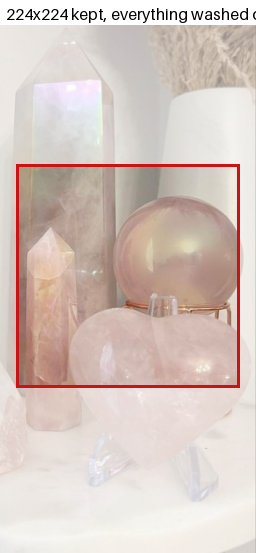
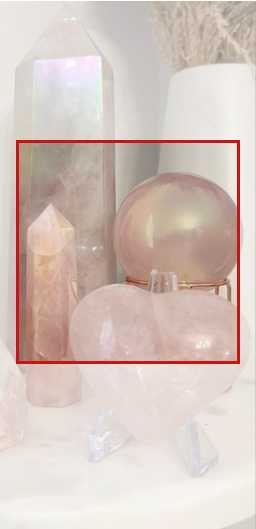
Long report: let long file names break across lines, proper quote marks, and crop the cut-off label from the crop-box figure
Claude-Session: https://claude.ai/code/session_01SL4m8snqhvQXPHuCVLHe1e

diff --git a/long_report/long_report.tex b/long_report/long_report.tex
@@ -34,7 +34,7 @@ They are also things I can photograph myself, which Problem 5 needs.
 
 I checked the four against \texttt{imagenet\_classes.txt}, the 1,000 categories
 ResNet18 already tells apart: none of the four is in it, the only entries that
-share a word with them being "stone wall" and "ruddy turnstone", and nothing in
+share a word with them being ``stone wall'' and ``ruddy turnstone'', and nothing in
 the list is a piece of polished quartz. So the last layer has to be replaced
 and these four categories have to be learned from features that were trained on
 something else.
@@ -532,10 +532,10 @@ all ten originals are answered right by the page.
 
 My requests to the agent, word for word:
 \begin{quote}
-make a copy of each image in data/new\_images/amethyst and
-data/new\_images/aventurine with lowered saturation and save the copies,
-respectively, in data/changed/less\_saturation\_amethyst and
-data/changed/less\_saturation\_aventurine
+make a copy of each image in \path{data/new_images/amethyst} and
+\path{data/new_images/aventurine} with lowered saturation and save the copies,
+respectively, in \path{data/changed/less_saturation_amethyst} and
+\path{data/changed/less_saturation_aventurine}
 \end{quote}
 and, asked by how much:
 \begin{quote}
@@ -619,7 +619,7 @@ were paler and less full in color, while the amethyst 0\% saturation that were
 guessed to be aventurine also were less full, paler but overall darker. Which
 makes me think that for the model aventurine is dark, but also pale, while rose
 quartz is pale but lighter. If I think of the mistakes made, the first one was
-of data/new\_images/citrine/6dc1dd3c-0216-45b8-abb7-214d633d280e.JPG being
+of \path{data/new_images/citrine/6dc1dd3c-0216-45b8-abb7-214d633d280e}.JPG being
 guessed as rose quartz, and in fact the crystal in the photo is less full in
 color, and lighter. To check this, the transparency of the images should be
 lowered. In particular my guess to check if transparency plays a role in how
@@ -639,10 +639,10 @@ lighter.
 My requests to the agent, word for word:
 \begin{quote}
 So make a copy of
-data/changed/less\_saturation\_amethyst/44db3aaf-5cdf-4004-9255-868fefec64c3.JPG,
-data/changed/less\_saturation\_amethyst/a95f9f93-5117-4b70-9e92-4c513bb5decc.JPG
-and data/changed/less\_saturation\_amethyst/IMG\_3089.JPG with lower transparency
-and save the copies in data/changed/less\_saturation\_less\_transparency\_amethyst
+\path{data/changed/less_saturation_amethyst/44db3aaf-5cdf-4004-9255-868fefec64c3}.JPG,
+\path{data/changed/less_saturation_amethyst/a95f9f93-5117-4b70-9e92-4c513bb5decc}.JPG
+and \path{data/changed/less_saturation_amethyst/IMG_3089}.JPG with lower transparency
+and save the copies in \path{data/changed/less_saturation_less_transparency_amethyst}
 \end{quote}
 and, after the agent explained that a picture has no transparency setting the
 model would see:
@@ -652,10 +652,10 @@ best way to make the crystal paler and less full would be to lower contrast to
 50\%, this way it's enough to make the image paler but keeps the darkess of the
 crystal which in my guess is what determines aventurine (pale but dark). So make
 a copy of
-data/changed/less\_saturation\_amethyst/44db3aaf-5cdf-4004-9255-868fefec64c3.JPG,
-data/changed/less\_saturation\_amethyst/a95f9f93-5117-4b70-9e92-4c513bb5decc.JPG
-and data/changed/less\_saturation\_amethyst/IMG\_3089.JPG with contrast to 50\%
-and save the copies in data/changed/less\_saturation\_less\_transparency\_amethyst.
+\path{data/changed/less_saturation_amethyst/44db3aaf-5cdf-4004-9255-868fefec64c3}.JPG,
+\path{data/changed/less_saturation_amethyst/a95f9f93-5117-4b70-9e92-4c513bb5decc}.JPG
+and \path{data/changed/less_saturation_amethyst/IMG_3089}.JPG with contrast to 50\%
+and save the copies in \path{data/changed/less_saturation_less_transparency_amethyst}.
 Also maintain the whole picture of the images for this guess.
 \end{quote}
 
@@ -733,8 +733,8 @@ citrine photos: the three the model gets wrong and the two it gets right.
 
 My requests to the agent, word for word:
 \begin{quote}
-So make a copy of each image in data/new\_images/citrine with higher saturation
-(70\%) and save the copies in data/changed/saturated\_citrine
+So make a copy of each image in \path{data/new_images/citrine} with higher saturation
+(70\%) and save the copies in \path{data/changed/saturated_citrine}
 \end{quote}
 and, asked whether 70\% meant 70\% more colour:
 \begin{quote}
@@ -828,11 +828,11 @@ square, so it sees all of the cut picture.
 My request to the agent, word for word:
 \begin{quote}
 So make a copy of images
-data/changed/saturated\_citrine/6dc1dd3c-0216-45b8-abb7-214d633d280e.JPG,
-data/changed/saturated\_citrine/2788e4fa-a7ad-453a-b3ad-3984b54d6e2c.JPG and
-data/changed/saturated\_citrine/58f05f6d-77f2-467e-b497-c4265bb43b8e.JPG cut the
+\path{data/changed/saturated_citrine/6dc1dd3c-0216-45b8-abb7-214d633d280e}.JPG,
+\path{data/changed/saturated_citrine/2788e4fa-a7ad-453a-b3ad-3984b54d6e2c}.JPG and
+\path{data/changed/saturated_citrine/58f05f6d-77f2-467e-b497-c4265bb43b8e}.JPG cut the
 background around the crystals and save the copies in
-data/changed/saturated\_cut\_citrine. In this case still work on the saturated
+\path{data/changed/saturated_cut_citrine}. In this case still work on the saturated
 version because I still think that saturation of the crystal plays a role.
 \end{quote}
 
@@ -900,8 +900,8 @@ before they were made, and on my request moved the square for
 
 My request to the agent, word for word:
 \begin{quote}
-So make a copy of each image in data/new\_images cut the background around the
-crystals and save the copies in data/changed/cut
+So make a copy of each image in \path{data/new_images} cut the background around the
+crystals and save the copies in \path{data/changed/cut}
 \end{quote}
 and, after the preview:
 \begin{quote}
